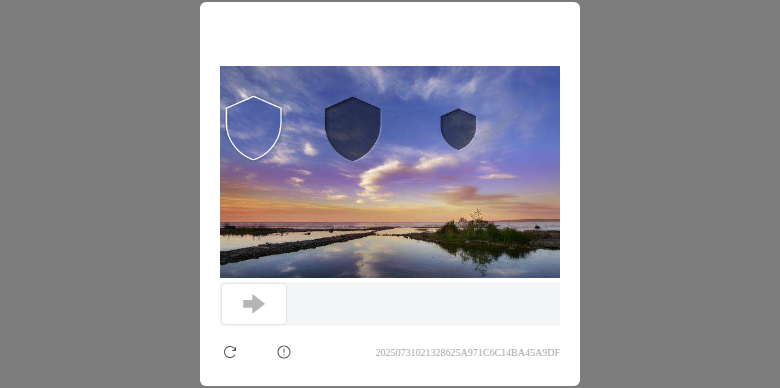
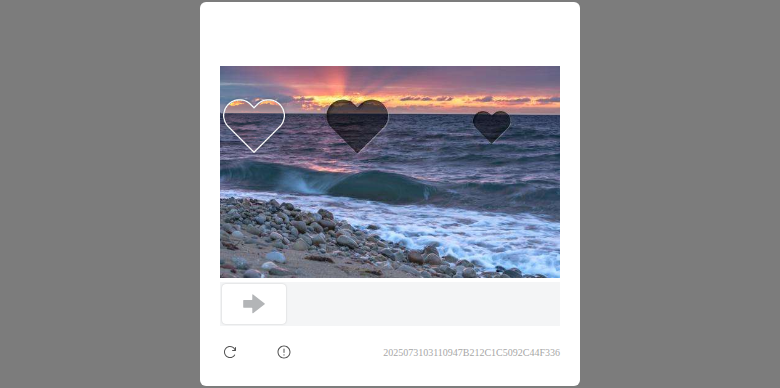
deploy: df55eefaafa6d3f7acde40813797448e9f8e5619

Changed region(s): [[0.2769, 0.1546, 0.7385, 0.7423], [0.4615, 0.8969, 0.7385, 0.9278]]

diff --git a/debug_page.html b/debug_page.html
@@ -136,7 +136,7 @@
 </style>
 <script src="https://lf-rc1.yhgfb-cn-static.com/obj/rc-verifycenter/verifycenter-collect/1.0.0.8-5.1.16/collect-base.js" async=""></script></head>
 <body style="overflow: hidden;">
-  <div id="root" style="display: block; z-index: 111111; position: fixed; width: 100%; height: 100%; background-color: rgba(0, 0, 0, 0.514); margin: auto; inset: 0px;"><iframe src="https://rmc.bytedance.com/verifycenter/captcha/v2?from=iframe&amp;fp=verify_mdqaayhj_rEprYFWm_wuI0_40o4_86Gh_SldI5rxfcyKc&amp;env=%7B%22screen%22%3A%7B%22w%22%3A800%2C%22h%22%3A600%7D%2C%22browser%22%3A%7B%22w%22%3A780%2C%22h%22%3A580%7D%2C%22page%22%3A%7B%22w%22%3A780%2C%22h%22%3A388%7D%2C%22document%22%3A%7B%22width%22%3A780%7D%2C%22product_host%22%3A%22www.douyin.com%22%2C%22vc_version%22%3A%221.0.0.253%22%2C%22maskTime%22%3A1753899211267%2C%22h5_check_version%22%3A%223.5.2%22%7D&amp;aid=6383&amp;scene_level=p2&amp;host=https%3A%2F%2Fverify.zijieapi.com&amp;hideCloseBtn=true&amp;verify_data=%7B%22code%22%3A%2210000%22%2C%22from%22%3A%22%22%2C%22type%22%3A%22verify%22%2C%22version%22%3A%22%22%2C%22region%22%3A%22cn%22%2C%22subtype%22%3A%22slide%22%2C%22ui_type%22%3A%22%22%2C%22detail%22%3A%22ms9qkmgzH7efMUoE4Qkkb3yvlAhJym6budUD6xps9cvzk07vOA1ZgDGivdO1zDtaKcv8Dn3fn8wmX5YDTJDR7-FL*9GZYRr5si8n1SHLRBo0iedrFS0WGozRBCcFEQr6kszWACdCa2r1rJrayKJmBY7ABPPbDelgFqW-rXcvKyCnXKTTFWw2oOTnnyJN-d3Ta7fHh017iwJX3Cgnnq50ukgOliX2flAcbobIgiO3UG36xDPg3Qaxt0FSv50TDl9bsjR05a*2uLpCVP7xhptu70kkdEDnNCgq-XVQFOnecdDb5VYLBwYnzlAnVmhofobgY5A1W1PzGI72-yNZ4jxGYFqAwBEXxDQ-nQlE63AoSfp8vQIbaANDXf3R4iUb83OTu9h3UuKcwQHRvKSV5MVse9ql8Et1tI1DHy7PuNms6Q6*bujXibRrwzXm8BpaHQaZysgqhsWozfwQkD5amsCle4Xyd-ToYQXV%22%2C%22verify_event%22%3A%2215699%22%2C%22fp%22%3A%22verify_mdqaayhj_rEprYFWm_wuI0_40o4_86Gh_SldI5rxfcyKc%22%2C%22server_sdk_env%22%3A%22%7B%5C%22idc%5C%22%3A%5C%22hl%5C%22%2C%5C%22region%5C%22%3A%5C%22CN%5C%22%2C%5C%22server_type%5C%22%3A%5C%22whale%5C%22%7D%22%2C%22log_id%22%3A%2220250731021328625A971C6C14BA45A9DF%22%2C%22is_assist_mobile%22%3Afalse%2C%22is_complex_sms%22%3Afalse%2C%22identity_action%22%3A%22%22%2C%22identity_scene%22%3A%22%22%2C%22login_status%22%3A0%2C%22aid%22%3A0%7D&amp;extraConfig=%7B%7D" style="border: none; display: block; visibility: visible; border-radius: 6px; overflow: hidden; position: absolute; left: 50%; top: 50%; transform: translate(-50%, -50%); width: 380px; height: 384px;"></iframe></div>
+  <div id="root" style="display: block; z-index: 111111; position: fixed; width: 100%; height: 100%; background-color: rgba(0, 0, 0, 0.514); margin: auto; inset: 0px;"><iframe src="https://rmc.bytedance.com/verifycenter/captcha/v2?from=iframe&amp;fp=verify_mdqcd4wz_1PpOpLaU_ceTJ_4Lsp_B91x_EFWrcomwfXSL&amp;env=%7B%22screen%22%3A%7B%22w%22%3A800%2C%22h%22%3A600%7D%2C%22browser%22%3A%7B%22w%22%3A780%2C%22h%22%3A580%7D%2C%22page%22%3A%7B%22w%22%3A780%2C%22h%22%3A388%7D%2C%22document%22%3A%7B%22width%22%3A780%7D%2C%22product_host%22%3A%22www.douyin.com%22%2C%22vc_version%22%3A%221.0.0.253%22%2C%22maskTime%22%3A1753902672823%2C%22h5_check_version%22%3A%223.5.2%22%7D&amp;aid=6383&amp;scene_level=p2&amp;host=https%3A%2F%2Fverify.zijieapi.com&amp;hideCloseBtn=true&amp;verify_data=%7B%22code%22%3A%2210000%22%2C%22from%22%3A%22%22%2C%22type%22%3A%22verify%22%2C%22version%22%3A%22%22%2C%22region%22%3A%22cn%22%2C%22subtype%22%3A%22slide%22%2C%22ui_type%22%3A%22%22%2C%22detail%22%3A%22kzSSbL*wO0vVbcwMjfi9rso4oVgyB4WLj*XCTloqLqQ9azc2mutVTW0rxLe-cJSB-l9ltngdzybnebCObly*thPqSy-xNddz5MCwhMdsf0eXHZZ-IKFMGlV7X6h8wyh*SFpaAdleWIIpnrqFtYAcPHY-hNnfow5-h8z4pN*xQJTqRzjX-wOk*sHTGraXJK3wGH9LKf-fKNoxTl*EWVm1nAwXsBoTDyY0L-yj6oWijLigwn8gwxHYmZpyH6lvA8TKSt9TgyJjQ00YNSd-cRPDKfUNxTeDjHXZ19XZbdh57Z6ZBS3os9rUrXBUEElBuR7cgL29kNZF2nnVeaY*iLryDyeLMt5zxatRKeRpe2C1pmNu8*R5AVir3Tua9DT*TJmivJtbc5dJiYFef2KCOUWYB7W8F5fnXReSUWlVAEHFaADBWqF5cyWZc8QXsSdrWcOHhBQiIMbLIVRRSPpf-5AEzNgQf8FnTVUF%22%2C%22verify_event%22%3A%2215699%22%2C%22fp%22%3A%22verify_mdqcd4wz_1PpOpLaU_ceTJ_4Lsp_B91x_EFWrcomwfXSL%22%2C%22server_sdk_env%22%3A%22%7B%5C%22idc%5C%22%3A%5C%22lf%5C%22%2C%5C%22region%5C%22%3A%5C%22CN%5C%22%2C%5C%22server_type%5C%22%3A%5C%22whale%5C%22%7D%22%2C%22log_id%22%3A%222025073103110947B212C1C5092C44F336%22%2C%22is_assist_mobile%22%3Afalse%2C%22is_complex_sms%22%3Afalse%2C%22identity_action%22%3A%22%22%2C%22identity_scene%22%3A%22%22%2C%22login_status%22%3A0%2C%22aid%22%3A0%7D&amp;extraConfig=%7B%7D" style="border: none; display: block; visibility: visible; border-radius: 6px; overflow: hidden; position: absolute; left: 50%; top: 50%; transform: translate(-50%, -50%); width: 380px; height: 384px;"></iframe></div>
   <div class="middle_page_loading">
     <span></span>
     <span></span>
@@ -195,7 +195,7 @@
         },
       },
     }
-    const verify_data = {"code":"10000","from":"","type":"verify","version":"","region":"cn","subtype":"slide","ui_type":"","detail":"ms9qkmgzH7efMUoE4Qkkb3yvlAhJym6budUD6xps9cvzk07vOA1ZgDGivdO1zDtaKcv8Dn3fn8wmX5YDTJDR7-FL*9GZYRr5si8n1SHLRBo0iedrFS0WGozRBCcFEQr6kszWACdCa2r1rJrayKJmBY7ABPPbDelgFqW-rXcvKyCnXKTTFWw2oOTnnyJN-d3Ta7fHh017iwJX3Cgnnq50ukgOliX2flAcbobIgiO3UG36xDPg3Qaxt0FSv50TDl9bsjR05a*2uLpCVP7xhptu70kkdEDnNCgq-XVQFOnecdDb5VYLBwYnzlAnVmhofobgY5A1W1PzGI72-yNZ4jxGYFqAwBEXxDQ-nQlE63AoSfp8vQIbaANDXf3R4iUb83OTu9h3UuKcwQHRvKSV5MVse9ql8Et1tI1DHy7PuNms6Q6*bujXibRrwzXm8BpaHQaZysgqhsWozfwQkD5amsCle4Xyd-ToYQXV","verify_event":"15699","fp":"verify_mdqaayhj_rEprYFWm_wuI0_40o4_86Gh_SldI5rxfcyKc","server_sdk_env":"{\"idc\":\"hl\",\"region\":\"CN\",\"server_type\":\"whale\"}","log_id":"20250731021328625A971C6C14BA45A9DF","is_assist_mobile":false,"is_complex_sms":false,"identity_action":"","identity_scene":"","login_status":0,"aid":0}
+    const verify_data = {"code":"10000","from":"","type":"verify","version":"","region":"cn","subtype":"slide","ui_type":"","detail":"kzSSbL*wO0vVbcwMjfi9rso4oVgyB4WLj*XCTloqLqQ9azc2mutVTW0rxLe-cJSB-l9ltngdzybnebCObly*thPqSy-xNddz5MCwhMdsf0eXHZZ-IKFMGlV7X6h8wyh*SFpaAdleWIIpnrqFtYAcPHY-hNnfow5-h8z4pN*xQJTqRzjX-wOk*sHTGraXJK3wGH9LKf-fKNoxTl*EWVm1nAwXsBoTDyY0L-yj6oWijLigwn8gwxHYmZpyH6lvA8TKSt9TgyJjQ00YNSd-cRPDKfUNxTeDjHXZ19XZbdh57Z6ZBS3os9rUrXBUEElBuR7cgL29kNZF2nnVeaY*iLryDyeLMt5zxatRKeRpe2C1pmNu8*R5AVir3Tua9DT*TJmivJtbc5dJiYFef2KCOUWYB7W8F5fnXReSUWlVAEHFaADBWqF5cyWZc8QXsSdrWcOHhBQiIMbLIVRRSPpf-5AEzNgQf8FnTVUF","verify_event":"15699","fp":"verify_mdqcd4wz_1PpOpLaU_ceTJ_4Lsp_B91x_EFWrcomwfXSL","server_sdk_env":"{\"idc\":\"lf\",\"region\":\"CN\",\"server_type\":\"whale\"}","log_id":"2025073103110947B212C1C5092C44F336","is_assist_mobile":false,"is_complex_sms":false,"identity_action":"","identity_scene":"","login_status":0,"aid":0}
     window.TTGCaptcha.init(options)
     window.TTGCaptcha.render({
         verify_data

diff --git a/index.html b/index.html
@@ -26,6 +26,6 @@
     <tr><td>2025-07-29 17:37:00</td><td>18703000</td></tr>
     <tr><td>2025-07-29 18:09:19</td><td>18686000</td></tr>
   </table>
-  <p class='last-update'>最后更新: 2025-07-30 18:14:18 UTC</p>
+  <p class='last-update'>最后更新: 2025-07-30 19:11:59 UTC</p>
 </body>
 </html>
